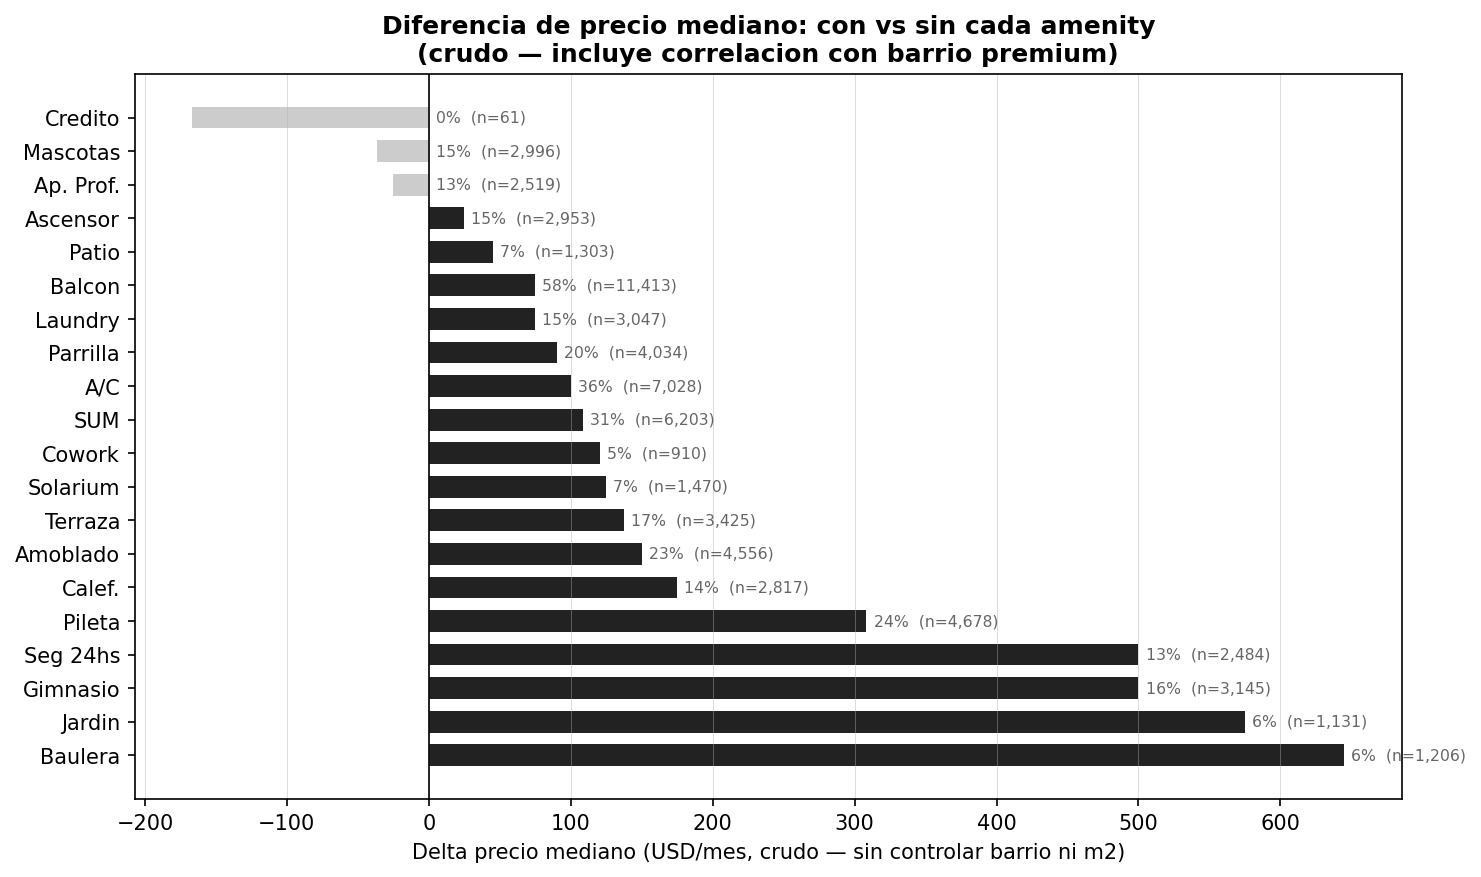
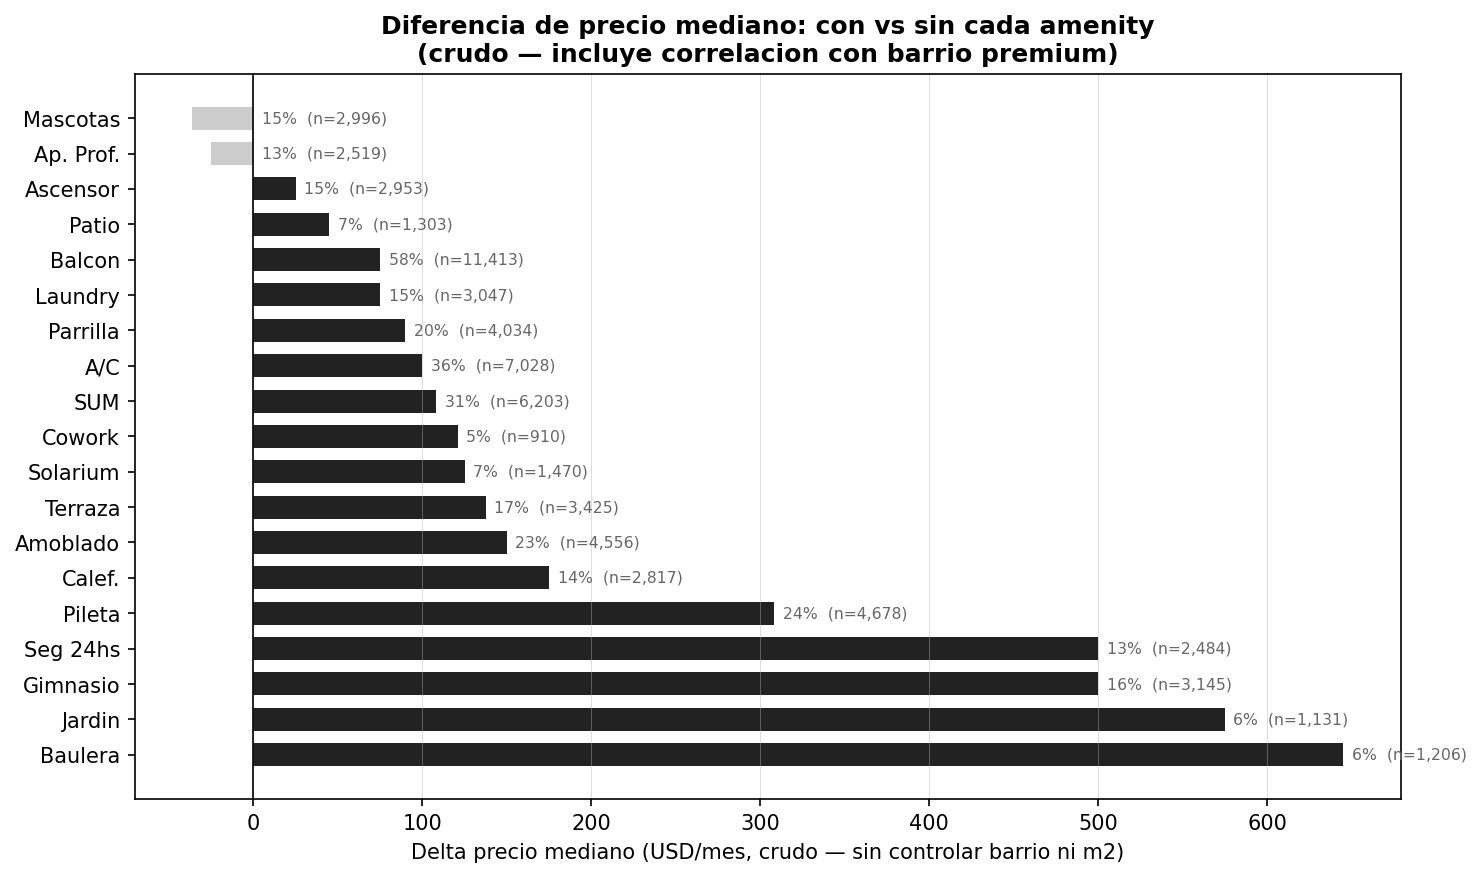
Remove low-prevalence amenity from delta chart (apto_credito, n=62)

diff --git a/scripts/eda_viz.py b/scripts/eda_viz.py
@@ -237,7 +237,7 @@ def plot_amenity_delta(df):
             continue
         con = df[df[col] == 1]["price_ref_usd"]
         sin = df[df[col] == 0]["price_ref_usd"]
-        if len(con) < 30:
+        if len(con) < 200:
             continue
         delta = con.median() - sin.median()
         results.append({